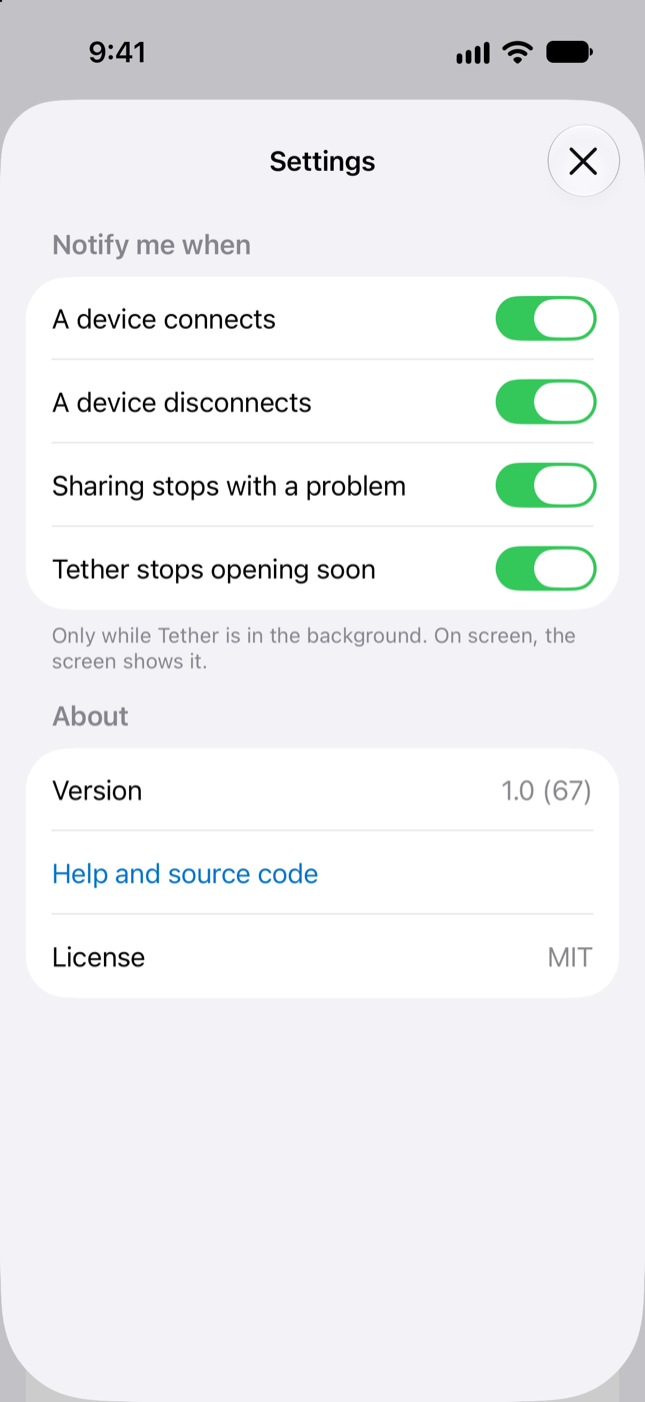
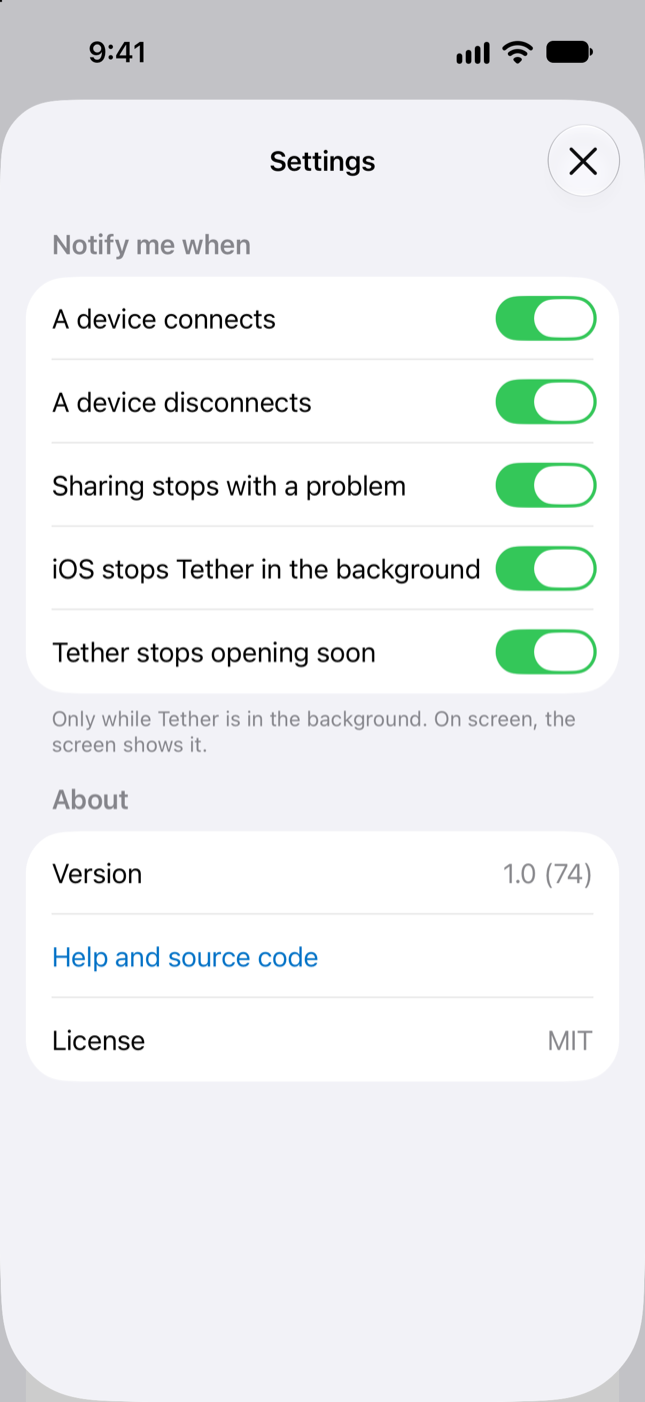
Tell the user when iOS stops Tether while it shares
iOS can end Tether in the background, or stop running it after a call, and
then sharing stops without a word: the devices' tunnels just go dead. iOS
doesn't tell an app it's ending it, so while Tether shares it keeps a
notification set 3 minutes ahead and pushes it back every minute. Once
Tether is gone nothing pushes it back, and "Tether stopped sharing" shows.

Sharing that stops, its switch turned off, or Tether launching again takes
it away. The actions run in the order the rounds made them, so a set still
asking for the permission can't land after a later clear. It has its own
switch in Settings, on like the others. New Settings screenshot.

Fixes #59

diff --git a/Tests/NotifierTests.swift b/Tests/NotifierTests.swift
@@ -175,7 +175,7 @@ final class NotifierTests: XCTestCase {
     }
 
     func testTheSwitchesAreSavedUnderTheirOwnKeys() {
-        XCTAssertEqual(NoticeKind.allCases.map(\.key), ["notify.connected", "notify.disconnected", "notify.sharingStopped", "notify.expiring"])
+        XCTAssertEqual(NoticeKind.allCases.map(\.key), ["notify.connected", "notify.disconnected", "notify.sharingStopped", "notify.closed", "notify.expiring"])
     }
 
     /// A device that's connected when Tether starts isn't news, on screen or off. The question
@@ -444,6 +444,97 @@ final class NoticePosterTests: XCTestCase {
     }
 }
 
+/// The notification that waits while Tether shares, see `ClosedAlarm`.
+final class ClosedAlarmTests: XCTestCase {
+    private let start = Date(timeIntervalSince1970: 1_800_000_000)
+    private var alarm = ClosedAlarm()
+
+    private func check(_ s: TimeInterval, sharing: Bool = true, on: Bool = true) -> ClosedAlarm.Action {
+        alarm.check(now: start.addingTimeInterval(s), sharing: sharing, on: on)
+    }
+
+    func testWhileSharingItIsPushedBackEveryMinute() {
+        XCTAssertEqual(check(0), .set(after: ClosedAlarm.delay))
+        XCTAssertEqual(check(15), .none)
+        XCTAssertEqual(check(59), .none)
+        XCTAssertEqual(check(60), .set(after: ClosedAlarm.delay))
+        XCTAssertEqual(check(75), .none)
+        XCTAssertGreaterThan(ClosedAlarm.delay, ClosedAlarm.pushBackEvery + 60, "a late round in the background mustn't let it fire")
+    }
+
+    func testSharingThatStopsTakesItAwayOnce() {
+        _ = check(0)
+        XCTAssertEqual(check(15, sharing: false), .clear)
+        XCTAssertEqual(check(30, sharing: false), .none)
+        XCTAssertEqual(check(45), .set(after: ClosedAlarm.delay), "sharing again")
+    }
+
+    /// A launch takes away one left by the Tether that iOS ended, before or after it showed.
+    func testTheFirstRoundTakesAwayALeftoverOne() {
+        XCTAssertEqual(check(0, sharing: false), .clear)
+        XCTAssertEqual(check(15, sharing: false), .none)
+    }
+
+    func testItsSwitchTurnedOffTakesItAway() {
+        _ = check(0)
+        XCTAssertEqual(check(15, on: false), .clear)
+        XCTAssertEqual(check(30, on: false), .none)
+        XCTAssertEqual(check(45), .set(after: ClosedAlarm.delay))
+    }
+
+    func testAClockSetBackPushesItBack() {
+        _ = check(0)
+        XCTAssertEqual(check(-600), .set(after: ClosedAlarm.delay))
+    }
+}
+
+@MainActor
+final class ClosedAlarmPostingTests: XCTestCase {
+    private func run(_ actions: [ClosedAlarm.Action], _ center: FakeNoticeCenter) async {
+        let poster = NoticePoster(center: center)
+        for action in actions { poster.queue(action) }
+        await poster.alarmDone()
+    }
+
+    func testAllowedItWaits() async {
+        let center = FakeNoticeCenter(.allowed)
+        await run([.set(after: 180)], center)
+        XCTAssertEqual(center.calls, ["schedule closed 180"])
+        XCTAssertEqual(center.scheduled.map(\.notice), [ClosedAlarm.notice])
+    }
+
+    func testWithoutPermissionNothingWaits() async {
+        for state in [NoticePermission.notAsked, .denied] {
+            let center = FakeNoticeCenter(state)
+            await run([.set(after: 180)], center)
+            XCTAssertEqual(center.calls, [], "\(state)")
+            XCTAssertEqual(center.asked, 0, "\(state)")
+        }
+    }
+
+    func testClearTakesItAwayWhateverThePermission() async {
+        let center = FakeNoticeCenter(.denied)
+        await run([.clear, .none], center)
+        XCTAssertEqual(center.calls, ["remove closed"])
+    }
+
+    /// A set that waits for the permission still comes before the clear queued after it, so nothing
+    /// is left waiting once sharing stopped.
+    func testActionsHappenInTheOrderTheyCame() async {
+        let center = FakeNoticeCenter(.allowed)
+        center.slowPermission = true
+        await run([.set(after: 180), .clear, .set(after: 180), .clear], center)
+        XCTAssertEqual(center.calls, ["schedule closed 180", "remove closed", "schedule closed 180", "remove closed"])
+    }
+
+    func testItsWordsSayWhatHappened() {
+        XCTAssertEqual(ClosedAlarm.notice.kind, .closed)
+        XCTAssertEqual(ClosedAlarm.notice.title, "Tether stopped sharing")
+        XCTAssertEqual(ClosedAlarm.notice.body, "Devices on the hotspot have no data until Tether runs again.")
+        XCTAssertEqual(NoticeKind.closed.label, "iOS stops Tether in the background")
+    }
+}
+
 /// The system's notification center, with the permission a test sets and the user's answer to the question.
 @MainActor
 final class FakeNoticeCenter: NoticeCenter {
@@ -455,6 +546,11 @@ final class FakeNoticeCenter: NoticeCenter {
     private(set) var checked = 0
     private(set) var asked = 0
     private(set) var added: [Notice] = []
+    private(set) var scheduled: [(notice: Notice, after: TimeInterval)] = []
+    /// Schedules and removals, in order.
+    private(set) var calls: [String] = []
+    /// permission() lets other tasks run first, the way the real one waits on the system.
+    var slowPermission = false
 
     init(_ state: NoticePermission, answer: Bool = false) {
         self.state = state
@@ -462,6 +558,7 @@ final class FakeNoticeCenter: NoticeCenter {
     }
 
     func permission() async -> NoticePermission {
+        if slowPermission { for _ in 0..<20 { await Task.yield() } }
         checked += 1
         return state
     }
@@ -480,5 +577,14 @@ final class FakeNoticeCenter: NoticeCenter {
 
     func add(_ notice: Notice) async {
         added.append(notice)
+    }
+
+    func schedule(_ notice: Notice, after: TimeInterval) async {
+        scheduled.append((notice, after))
+        calls.append("schedule \(notice.id) \(Int(after))")
+    }
+
+    func remove(_ id: String) {
+        calls.append("remove \(id)")
     }
 }

diff --git a/Sources/Notices.swift b/Sources/Notices.swift
@@ -2,7 +2,7 @@ import Foundation
 
 /// What Tether can tell in a notification. Each has its own switch, all on until turned off.
 enum NoticeKind: String, CaseIterable {
-    case connected, disconnected, sharingStopped, expiring
+    case connected, disconnected, sharingStopped, closed, expiring
 
     /// The switch's label in Settings.
     var label: String {
@@ -10,6 +10,7 @@ enum NoticeKind: String, CaseIterable {
         case .connected: "A device connects"
         case .disconnected: "A device disconnects"
         case .sharingStopped: "Sharing stops with a problem"
+        case .closed: "iOS stops Tether in the background"
         case .expiring: "Tether stops opening soon"
         }
     }
@@ -207,6 +208,47 @@ struct Notifier {
     }
 }
 
+/// A notification that waits while Tether shares and shows if Tether stops. iOS doesn't tell an app
+/// it's ending it in the background, and it can stop running it for good after a call or with too
+/// little memory, so Tether keeps one set `delay` ahead and pushes it back every `pushBackEvery`.
+/// Once Tether is gone nothing pushes it back, and it shows. Sharing that stops, or its switch
+/// turned off, takes it away, and so does the first round after a launch, for one left behind.
+struct ClosedAlarm {
+    /// More than `pushBackEvery` plus a background round (15 s, see `KeepAlivePolicy`) and its
+    /// tolerance, so a late round never lets it show.
+    static let delay: TimeInterval = 3 * 60
+    static let pushBackEvery: TimeInterval = 60
+    static let notice = Notice(kind: .closed, id: "closed", title: "Tether stopped sharing",
+                               body: "Devices on the hotspot have no data until Tether runs again.")
+
+    enum Action: Equatable {
+        /// Show it after this long, in place of any waiting one, and take away one that showed.
+        case set(after: TimeInterval)
+        /// Take it away, waiting or shown.
+        case clear
+        case none
+    }
+
+    /// When it was last set. Nil while it isn't.
+    private var setAt: Date?
+    private var checked = false
+
+    mutating func check(now: Date, sharing: Bool, on: Bool) -> Action {
+        defer { checked = true }
+        guard sharing, on else {
+            let waiting = setAt != nil || !checked
+            setAt = nil
+            return waiting ? .clear : .none
+        }
+        if let setAt {
+            let since = now.timeIntervalSince(setAt)
+            if since >= 0, since < Self.pushBackEvery { return .none } // a clock set back pushes it back too
+        }
+        setAt = now
+        return .set(after: Self.delay)
+    }
+}
+
 /// Notification permission, as `NoticePoster` needs it.
 enum NoticePermission {
     case notAsked, allowed, denied
@@ -220,6 +262,10 @@ protocol NoticeCenter: AnyObject {
     /// Shows the system's question. True when allowed.
     func ask() async -> Bool
     func add(_ notice: Notice) async
+    /// Shows it after this long, in place of one with its id that waits or showed.
+    func schedule(_ notice: Notice, after: TimeInterval) async
+    /// Takes away the notice with this id, waiting or shown.
+    func remove(_ id: String)
 }
 
 /// Posts what `Notifier` decided, and asks for permission the first time something happens that it
@@ -231,6 +277,8 @@ final class NoticePoster {
     private let center: NoticeCenter
     /// The question while it's up, so a round that comes meanwhile doesn't ask again.
     private var asking: Task<Void, Never>?
+    /// The last alarm action queued, see `queue`.
+    private var alarm: Task<Void, Never>?
 
     init(center: NoticeCenter) {
         self.center = center
@@ -239,6 +287,29 @@ final class NoticePoster {
     func post(_ notices: [Notice]) async {
         guard !notices.isEmpty, await center.permission() == .allowed else { return }
         for notice in notices { await center.add(notice) }
+    }
+
+    /// Does what `ClosedAlarm` decided, after what it decided before: a set still asking for the
+    /// permission mustn't come after the clear of a later round, and leave one waiting.
+    func queue(_ action: ClosedAlarm.Action) {
+        let before = alarm
+        alarm = Task { await before?.value; await apply(action) }
+    }
+
+    /// The queued alarm actions are done.
+    func alarmDone() async { await alarm?.value }
+
+    /// Without permission nothing waits, and nothing is asked: the alarm alone is no moment to ask.
+    private func apply(_ action: ClosedAlarm.Action) async {
+        switch action {
+        case let .set(after):
+            guard await center.permission() == .allowed else { return }
+            await center.schedule(ClosedAlarm.notice, after: after)
+        case .clear:
+            center.remove(ClosedAlarm.notice.id)
+        case .none:
+            break
+        }
     }
 
     func askIfNotAsked() async {

diff --git a/Sources/SettingsView.swift b/Sources/SettingsView.swift
@@ -139,12 +139,27 @@ final class SystemNoticeCenter: NoticeCenter {
     }
 
     func add(_ notice: Notice) async {
+        await post(notice, trigger: nil)
+    }
+
+    func schedule(_ notice: Notice, after: TimeInterval) async {
+        // A request with the same id replaces a waiting one, but not one that showed.
+        center.removeDeliveredNotifications(withIdentifiers: [notice.id])
+        await post(notice, trigger: UNTimeIntervalNotificationTrigger(timeInterval: after, repeats: false))
+    }
+
+    func remove(_ id: String) {
+        center.removePendingNotificationRequests(withIdentifiers: [id])
+        center.removeDeliveredNotifications(withIdentifiers: [id])
+    }
+
+    private func post(_ notice: Notice, trigger: UNNotificationTrigger?) async {
         let content = UNMutableNotificationContent()
         content.title = notice.title
         content.body = notice.body
         content.sound = .default
         do {
-            try await center.add(UNNotificationRequest(identifier: notice.id, content: content, trigger: nil))
+            try await center.add(UNNotificationRequest(identifier: notice.id, content: content, trigger: trigger))
         } catch {
             log("notification \(notice.kind.rawValue) not posted: \(error)")
         }

diff --git a/Sources/Model.swift b/Sources/Model.swift
@@ -67,6 +67,7 @@ final class Model: ObservableObject {
     /// Where the notification switches are saved. A demo launch has its own, emptied at launch.
     let noticeDefaults: UserDefaults
     private var notifier: Notifier
+    private var closedAlarm = ClosedAlarm()
     private let noticeCenter: NoticeCenter
     private let poster: NoticePoster
 
@@ -154,6 +155,8 @@ final class Model: ObservableObject {
                                                     sharing: session.sharing, devices: session.wireGuardPeers,
                                                     connected: session.connectedNow, expires: expires))
         if notifier.wouldTell { askForNotices() }
+        let alarm = closedAlarm.check(now: Date(), sharing: session.sharing, on: NoticeKind.closed.isOn(in: noticeDefaults))
+        if alarm != .none { poster.queue(alarm) }
         guard !notices.isEmpty else { return }
         for notice in notices { Self.append("notice: \(notice.title)") }
         Task { await poster.post(notices) }

diff --git a/UITests/NotificationsTests.swift b/UITests/NotificationsTests.swift
@@ -20,11 +20,12 @@ final class NotificationsTests: TetherUITestCase {
     func testTheGearOpensASwitchForEachKindAllOn() {
         launch(.sharing)
         openSettings()
-        for kind in ["connected", "disconnected", "sharingStopped", "expiring"] {
+        for kind in ["connected", "disconnected", "sharingStopped", "closed", "expiring"] {
             XCTAssertTrue(toggle(kind).waitForExistence(timeout: 5), kind)
             XCTAssertEqual(value(of: toggle(kind)), "1", kind)
         }
         XCTAssertEqual(toggle("connected").label, "A device connects")
+        XCTAssertEqual(toggle("closed").label, "iOS stops Tether in the background")
         XCTAssertEqual(toggle("expiring").label, "Tether stops opening soon")
     }
 

diff --git a/Sources/DemoMode.swift b/Sources/DemoMode.swift
@@ -65,6 +65,8 @@ final class DemoNoticeCenter: NoticeCenter {
     func permission() async -> NoticePermission { state }
     func ask() async -> Bool { false }
     func add(_ notice: Notice) async {}
+    func schedule(_ notice: Notice, after: TimeInterval) async {}
+    func remove(_ id: String) {}
 }
 
 /// A Keychain that is locked until the first unlock after a restart: it can't be read or written.

diff --git a/TESTING.md b/TESTING.md
@@ -16,7 +16,7 @@ They need no device and no internet. They cover:
 - The server's counters: no device counting as connected before its first handshake, and traffic totals that never go backwards across restarts.
 - The hotspot lifecycle in `HotspotSession`, round by round: the server starts when the hotspot appears and stops when it goes or changes, a failed start is tried again, a setup problem shows before a start problem and a stale start error clears with the hotspot, a refused device list restarts the server, a rename or removal that couldn't be saved says so until a change saves, the config page starting and stopping with the server and starting again after a failure, the 10-minute keep-alive wait on and off screen, the background claim and read of who is connected, and the speeds.
 - The config page: what it reads from a request (only the request line, the path without the query), the headers on every answer (no caching, no sniffing, no scripts, closed after it), the config handed out only while Tether is on screen, a download listing the device and making a new key for the next one, and a download that couldn't be saved handing out nothing. The real listener runs on loopback: one answer per connection, a request in pieces, a head over 8 KB, a connection that sends nothing, a port in use, and a restart on the same port.
-- Notifications (`Notifier` and `NoticePoster`): a device told by name when it connects, and when it leaves only once it has been gone 3 minutes, one device at most once in 5 minutes, nothing on screen and nothing told again that the screen showed, the hotspot going told as each connected device disconnecting after 3 minutes (its network also goes when the last device leaves, so Tether can't tell the two apart), WireGuard stopping told after a minute with the devices that were connected, the build expiring told once a day, a switch for each kind, and permission asked on screen when something happens there that would be told in the background, once, with nothing posted before that or after a no.
+- Notifications (`Notifier` and `NoticePoster`): a device told by name when it connects, and when it leaves only once it has been gone 3 minutes, one device at most once in 5 minutes, nothing on screen and nothing told again that the screen showed, the hotspot going told as each connected device disconnecting after 3 minutes (its network also goes when the last device leaves, so Tether can't tell the two apart), WireGuard stopping told after a minute with the devices that were connected, the build expiring told once a day, a notice that waits 3 minutes ahead while Tether shares and is pushed back every minute, so it shows only if Tether stops (taken away when sharing stops, its switch goes off, or Tether launches again), a switch for each kind, and permission asked on screen when something happens there that would be told in the background, once, with nothing posted before that or after a no.
 - The ready device (let in but not listed until it connects, then listed and replaced by a new one), the build expiry warning, when the keep-alive sound plays, how bytes and speeds read, and what the Shortcuts actions say.
 
 The WireGuard server has its own Go tests. CI runs them at full size, then again under the race detector:
@@ -93,6 +93,7 @@ These need another person or a game account, so they aren't scripted.
 | Hotspot after a long gap | Wait more than 10 minutes with the hotspot off, open Tether, then turn the hotspot on in Settings | Tether starts sharing without being opened again |
 | Shortcut after a long gap | Wait more than 10 minutes with the hotspot off and Tether in the background, then run a shortcut with Set Personal Hotspot (On) and Start Tether | Tether doesn't come on screen and the action says it's ready. Join the iPad: its tunnel connects. Lock the iPhone for 15 minutes: the iPad is still online |
 | Notifications | Add the iPad with Tether on screen and allow notifications when asked. Lock the iPhone, turn the iPad's tunnel off, and once "iPad disconnected" shows, wait 5 minutes and turn it on again. Then turn off Personal Hotspot and wait 4 minutes | The question shows as the iPad connects. On the lock screen, "iPad disconnected" shows 3 to 6 minutes after the tunnel goes off, "iPad connected" within 30 seconds of it going on, and "iPad disconnected" 3 minutes after the hotspot goes. With Tether on screen nothing shows |
+| Tether stopped | Share with the iPad connected and notifications allowed, then go to the home screen and stop Tether from Xcode (Debug > Detach and kill, or the stop button) | "Tether stopped sharing" shows about 3 minutes later. Opening Tether again takes it away, and turning off Personal Hotspot first means it never shows |
 | Is Tether Sharing? | Run it with the hotspot off, then on with the iPad connected | It says waiting, then sharing with 1 device |
 
 ## Things we learned the hard way

diff --git a/README.md b/README.md
@@ -138,7 +138,7 @@ iOS has no automation for "Personal Hotspot turned on", so let one shortcut turn
 
 - **It stops opening after 7 days** when signed with a free Apple ID. Tether says on its main screen when it has three days or less left, and in a notification once a day while it runs in the background. Refresh it in SideStore or AltStore, or build and install it again (step 3 above), before then. A paid certificate lasts longer. Your devices and settings stay.
 - **Keep it running.** Tether plays silent audio so iOS doesn't suspend it in the background. It mixes with other audio, so your music keeps playing, and it picks up again after a call, Siri, or an audio reset. With no device on the hotspot for 10 minutes it stops, to save battery, and iOS suspends Tether. Open it again, or run Start Tether, before you turn the hotspot back on, and after a restart.
-- **Notifications** say when a device connects or disconnects, by its name, when sharing stops with a problem while devices were connected, and when Tether stops opening soon. The gear at the top of the main screen opens Settings, with a switch for each. They come only while Tether is in the background, since the screen shows the same. Tether asks for permission on screen the first time something happens that it would tell, like a device connecting as you add it. Or tap Allow notifications in Settings first. A device counts as gone a few minutes after it leaves, and one device posts at most once in 5 minutes, so a laptop that sleeps for a moment stays quiet.
+- **Notifications** say when a device connects or disconnects, by its name, when sharing stops with a problem while devices were connected, when iOS stops Tether in the background while it shares, and when Tether stops opening soon. The gear at the top of the main screen opens Settings, with a switch for each. They come only while Tether is in the background, since the screen shows the same. Tether asks for permission on screen the first time something happens that it would tell, like a device connecting as you add it. Or tap Allow notifications in Settings first. A device counts as gone a few minutes after it leaves, and one device posts at most once in 5 minutes, so a laptop that sleeps for a moment stays quiet.
 - **It only listens on the hotspot**, never on other Wi-Fi networks. WireGuard only lets in devices you added.
 - **Devices reach what the iPhone reaches**, private networks included. With a VPN on the iPhone, your devices use it too, so its networks are open to them and to everyone behind a travel router you added.
 - **The main screen** shows whether Tether is sharing, the QR code for the next device with Share file and Browser buttons under it, your devices with Connected or Not connected, and the current download and upload speed. The gear opens Settings: the notification switches, the version, and when this build stops opening. To stop sharing, turn off Personal Hotspot.
